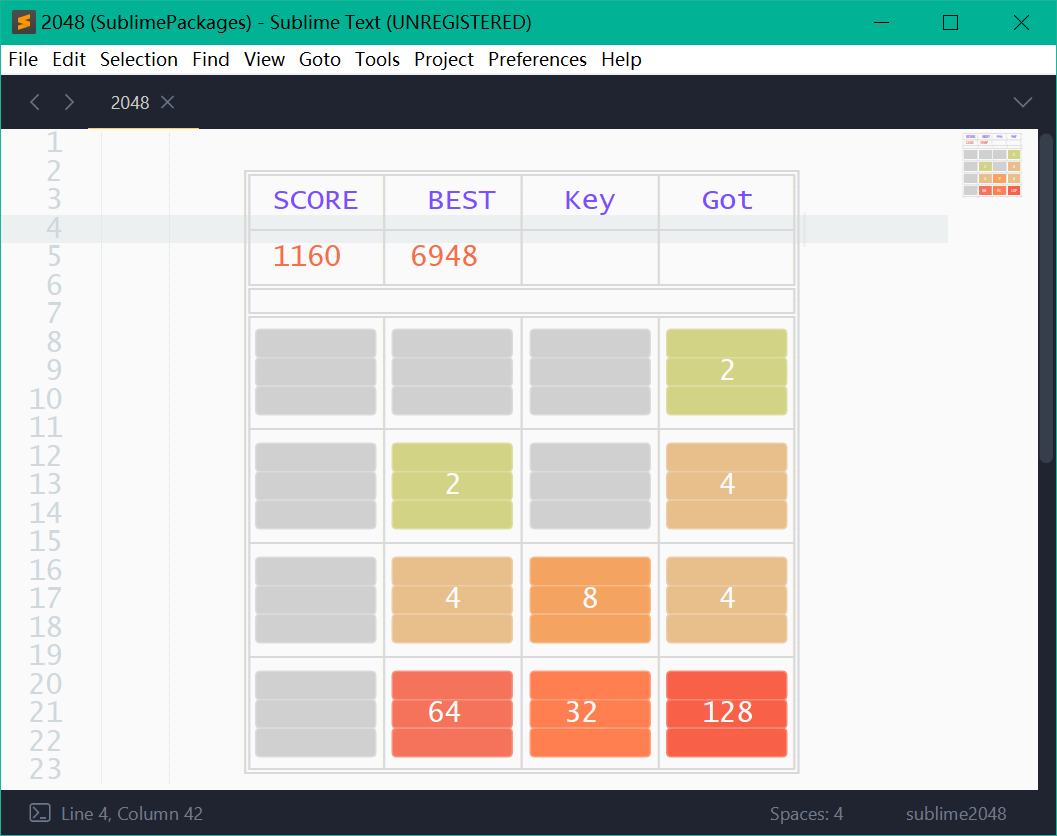
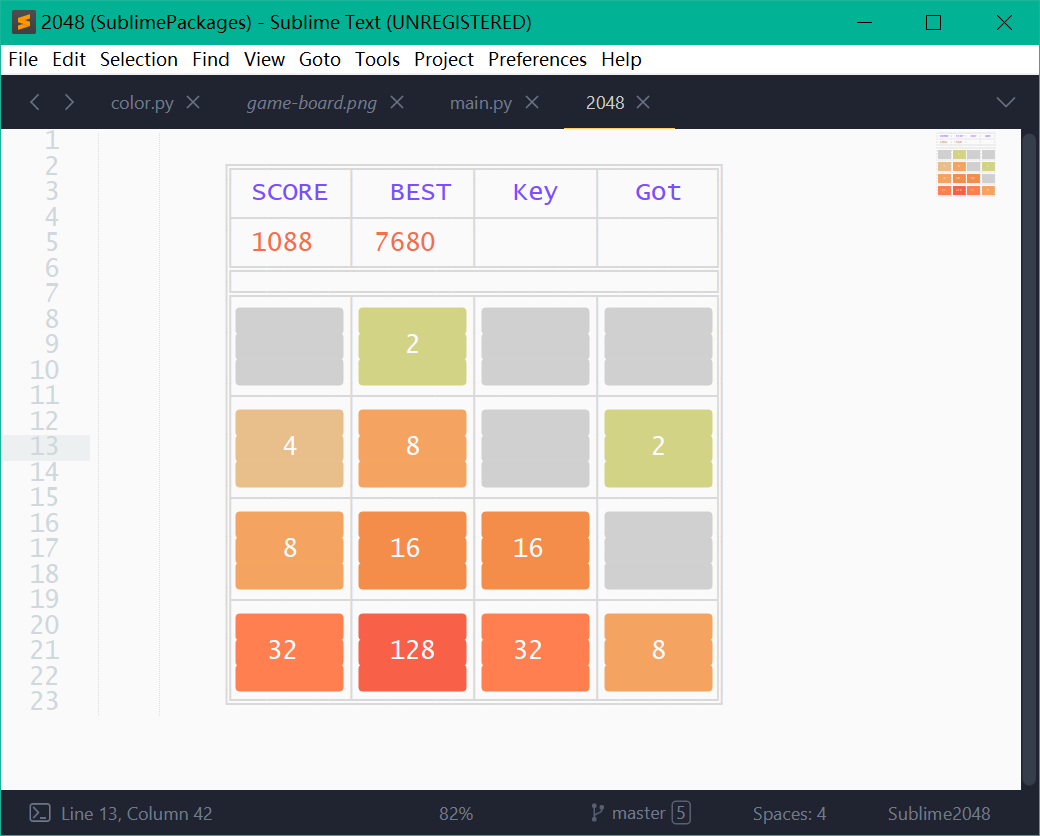
Added color.py and settings file for configuring game view.

diff --git a/main.py b/main.py
@@ -11,7 +11,8 @@ import sublime_plugin
 启动新游戏时，加载全局游戏记录作为View的初始游戏记录
 """
 
-sublime2048_record = "sublime2048.sublime-settings"
+sublime2048_record = "Sublime2048Record.sublime-settings"
+
 
 class Score():
     def __init__(self):
@@ -140,10 +141,6 @@ class Board():
     def score(self):
         return self.grid.score.current
 
-    def add_randnum(self):
-        if self.grid.nblank > 0:
-            self.grid.add_randnum()
-
     def move(self, direction):
         return self.moves[direction](self.grid)
 
@@ -181,10 +178,10 @@ class Sublime2048(sublime_plugin.TextCommand):
         ║       │       │       │       ║
         ╚═══════╧═══════╧═══════╧═══════╝"""
     game_over_tips = """
-                 游戏结束
+                     游戏结束
     """
     game_won_tips = """
-                  你赢了
+                      你赢了
     """
     def run(self, edit, command=None, key=None, record=None):
         if command == "move":
@@ -195,9 +192,6 @@ class Sublime2048(sublime_plugin.TextCommand):
 
         elif command == "setup":
             self.setup(edit, record)
-
-        elif command == "save_record":
-            self.save_record()
 
     def setup(self, edit, record):
         if not record:
@@ -210,19 +204,18 @@ class Sublime2048(sublime_plugin.TextCommand):
         self.arrow = None
         self.game_overed = not self.board.isalive()
         if self.game_overed:
-            self.game_resart(edit)
+            self.game_over(edit)
         self.refresh(edit)
 
     def create_game_board(self, view):
         view.set_name("2048")
         view.set_scratch(True)
-        view.assign_syntax("sublime2048.sublime-syntax")
+        view.assign_syntax("Sublime2048.sublime-syntax")
         view.settings().set("sublime2048", True)
+        view.settings().set("highlight_line", False)
+        view.settings().set("scroll_past_end", False)
         view.settings().set("draw_white_space", None)
-        view.settings().set("color_scheme",
-            "Material-Lighter.sublime-color-scheme")
         view.run_command('append', {'characters': self.game_board_text})
-
 
     def board_regions(self):
         region = self.view.find(" SCORE ", 0)
@@ -257,7 +250,7 @@ class Sublime2048(sublime_plugin.TextCommand):
         if not self.game_overed:
             self.moved = self.board.move(key)
             if self.moved:
-                self.board.add_randnum()
+                row, col = self.board.grid.add_randnum()
                 if not self.board.isalive():
                     self.game_over(edit)
                 if self.board.iswon():
@@ -266,31 +259,28 @@ class Sublime2048(sublime_plugin.TextCommand):
                 record = self.board.grid.record()
                 self.view.settings().set("record", record)
 
-                self.refresh(edit)
+                self.refresh(edit, row=row, col=col)
 
     def game_won(self, edit):
-        endpt = self.view.size()
-        self.view.set_read_only(False)
-        self.view.insert(edit, endpt, self.game_won_tips)
-        self.view.set_read_only(True)
+        self.status_message(edit, self.game_won_tips)
 
     def game_resart(self, edit):
-        self.view.set_read_only(False)
-        self.view.erase(edit,
-            sublime.Region(len(self.game_board_text), self.view.size()))
-        self.view.set_read_only(True)
+        self.status_message(edit, "")
         self.game_overed = False
         self.board.grid.reset()
         self.refresh(edit)
 
     def game_over(self, edit):
-        endpt = self.view.size()
-        self.view.set_read_only(False)
-        self.view.insert(edit, endpt, self.game_over_tips)
-        self.view.set_read_only(True)
+        self.status_message(edit, self.game_over_tips)
         self.game_overed = True
 
-    def refresh(self, edit):
+    def status_message(self, edit, msg):
+        self.view.set_read_only(False)
+        self.view.replace(edit,
+            sublime.Region(len(self.game_board_text), self.view.size()), msg)
+        self.view.set_read_only(True)
+
+    def refresh(self, edit, row=None, col=None):
         def align(num):
             ns = 7 - len(num)
             ls = ns >> 1
@@ -313,25 +303,29 @@ class Sublime2048(sublime_plugin.TextCommand):
         self.view.replace(edit, self.regions["got"],
                           formater("%+d", self.moved))
 
-        for row in range(4):
-            for col in range(4):
-                number = self.board.grid.numbers[row][col]
-                region = self.board.grid.regions[row][col]
-                key = "%d_%d_sublime2048" % (row, col)
+        for x in range(4):
+            for y in range(4):
+                number = self.board.grid.numbers[x][y]
+                region = self.board.grid.regions[x][y]
+                key = "%d_%d_sublime2048" % (x, y)
                 self.view.replace(edit, region, formater("%d", number))
                 self.view.erase_regions(key)
                 self.view.add_regions(key,
-                    self.regions["grid"][row][col],
-                    scope="%d.sublime2048" % number)
+                    self.regions["grid"][x][y],
+                    scope="%s.sublime2048" % (number or "empty"),
+                    flags=sublime.DRAW_NO_OUTLINE|sublime.PERSISTENT)
+
+        self.view.erase_regions("new_sublime2048")
+        if row is not None:
+            self.view.erase_regions("%d_%d_sublime2048" % (row, col))
+            number = self.board.grid.numbers[row][col]
+            self.view.add_regions("new_sublime2048",
+                self.regions["grid"][row][col],
+                scope="%d.sublime2048 new_number.sublime2048" % number,
+                flags=sublime.DRAW_NO_OUTLINE|sublime.PERSISTENT)
 
         self.view.sel().clear()
         self.view.set_read_only(True)
-
-    def save_record(self):
-        settings = sublime.load_settings(sublime2048_record)
-        settings.set("record", self.board.grid.record())
-        sublime.save_settings(sublime2048_record)
-        sublime.status_message("Sublime2048: game record saved")
 
     def load_record(self):
         settings = sublime.load_settings(sublime2048_record)
@@ -344,18 +338,26 @@ class Sublime2048Setup(sublime_plugin.WindowCommand):
         view.run_command("sublime2048", {"command": "setup"})
 
 
-class Sublime2048Manager(sublime_plugin.EventListener):
-    activated_games = set()
+class Sublime2048Manager(sublime_plugin.ViewEventListener):
+    is_activated = False
 
-    def on_activated(self, view):
-        if view.view_id in self.activated_games:
-            return
-        settings = view.settings()
-        if (settings.has("sublime2048") and settings.has("record")):
-            view.run_command("sublime2048",
-                {"command": "setup", "record": settings.get("record")})
-            self.activated_games.add(view.view_id)
+    @classmethod
+    def is_applicable(cls, settings):
+        return settings.has("sublime2048") and settings.has("record")
 
-    def on_close(self, view):
-        if view.settings().has("sublime2048"):
-            view.run_command("sublime2048", {"command": "save_record"})
+    def on_activated(self):
+        if not self.is_activated:
+            self.view.run_command("sublime2048", {
+                "command": "setup",
+                "record": self.view.settings().get("record")
+            })
+            self.is_activated = True
+
+    def on_close(self):
+        self.save_record()
+        sublime.status_message("Sublime2048: game record saved")
+
+    def save_record(self):
+        settings = sublime.load_settings(sublime2048_record)
+        settings.set("record", self.view.settings().get("record"))
+        sublime.save_settings(sublime2048_record)

diff --git a/color.py b/color.py
@@ -1,0 +1,72 @@
+import os
+import json
+import sublime
+
+
+class ColorSchemeManager():
+    color_scheme = "Monokai.sublime-color-scheme"
+
+    def __init__(self):
+        self.settings = sublime.load_settings("Sublime2048.sublime-settings")
+        self.preferences = sublime.load_settings(
+            "Preferences.sublime-settings")
+        self.settings.add_on_change("colors", self.build)
+        self.preferences.add_on_change("color_scheme", self.rebuild)
+        self.build()
+
+    def cache_path(self):
+        return os.path.join(sublime.packages_path(),
+            "User", "Color Schemes", "Sublime2048")
+
+    def clear(self):
+        color_scheme_path = self.cache_path()
+        for file in os.listdir(color_scheme_path):
+            if file != self.color_scheme:
+                try:
+                    os.remove(os.path.join(color_scheme_path, file))
+                except:
+                    pass
+
+    def rebuild(self):
+        scheme = self.preferences.get("color_scheme", self.color_scheme)
+        if scheme != self.color_scheme:
+            self.color_scheme = scheme
+            self.build()
+
+    def build(self):
+        styles = sublime.active_window().active_view().style()
+        colors = self.settings.get("colors")
+
+        color_scheme_path = self.cache_path()
+        color_scheme_name = os.path.basename(
+            self.color_scheme).replace("tmTheme", "sublime-color-scheme")
+        color_scheme_file = os.path.join(color_scheme_path, color_scheme_name)
+        color_scheme_data = {
+            "name": os.path.splitext(os.path.basename(self.color_scheme))[0],
+            "author": "Sublime2048",
+            "variables": {},
+            "globals": {},
+            "rules": [
+                {
+                    "scope": key + ".sublime2048",
+                    # "name": "sublime2048",
+                    "foreground": colors["foreground"]["numbers"],
+                    "background": value
+                }
+                for key, value in colors["background"].items()
+            ] + [
+                {
+                    "scope": key + ".sublime2048",
+                    # "name": "sublime2048",
+                    "foreground": value,
+                }
+                for key, value in colors["foreground"].items()
+            ]
+        }
+        os.makedirs(color_scheme_path, exist_ok=True)
+        with open(color_scheme_file, "w+") as file:
+            file.write(json.dumps(color_scheme_data))
+
+
+def plugin_loaded():
+    ColorSchemeManager()
